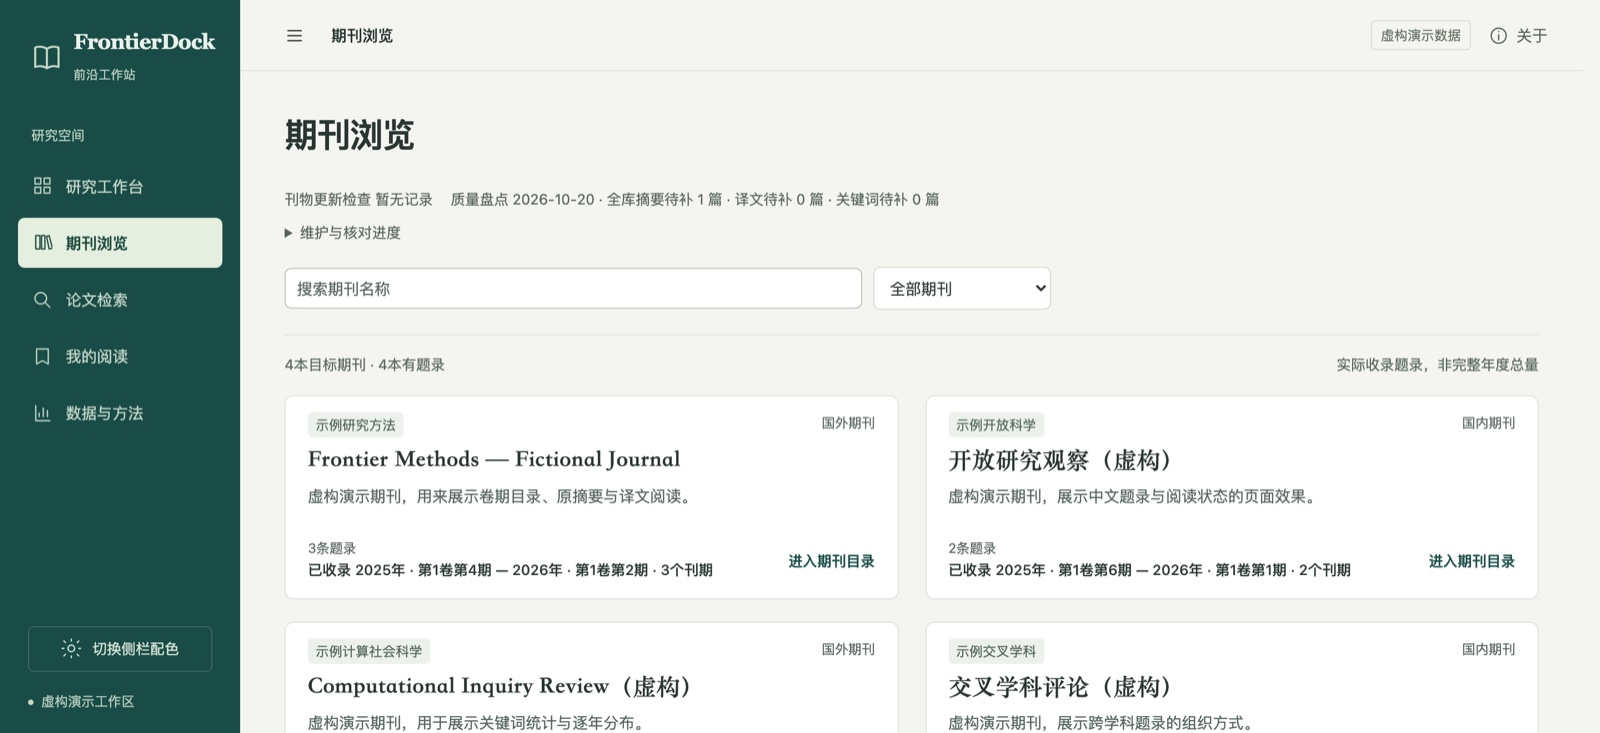
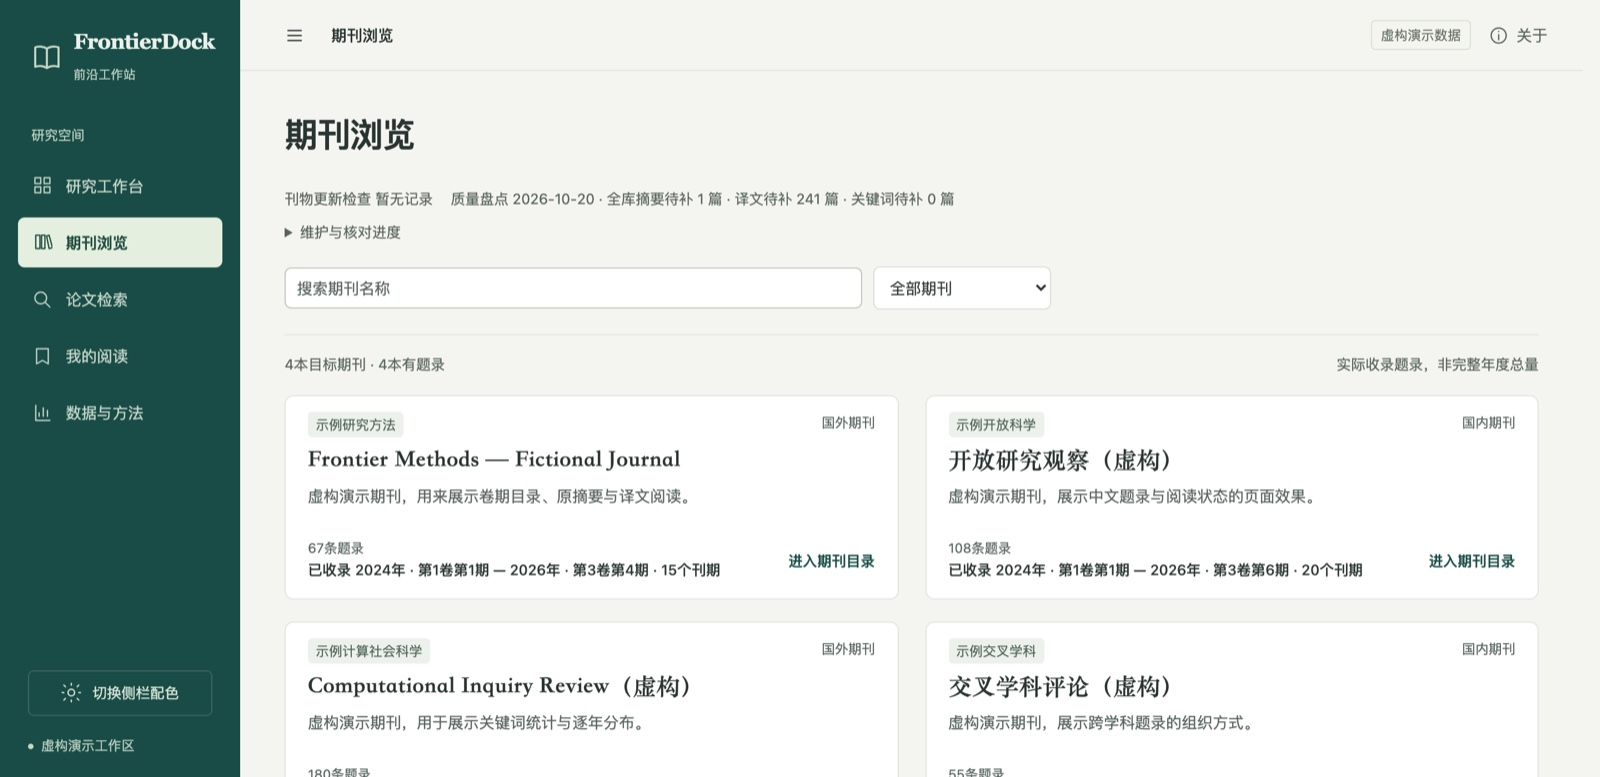
Give the demo corpus a realistic keyword distribution
The demo workspace now seeds 410 fictional records across four journals and
three years, with weighted topics so the insights page shows the long tail a
real library has: a few dominant terms, a middle band and a shallow tail.

- generate the corpus deterministically from a fixed seed; ten handcrafted
  records stay first so existing examples and tests keep their IDs
- tests that assumed a single 2024 record now use an unused year, and the
  catalog read-back filters by title instead of relying on page one
- refresh all screenshots and the hero image from the new data
- setup skill: offer a twice-daily check-up that looks for new issues,
  refills translations within the limits and reports in plain language,
  including what a broken workspace would look like to a non-technical user

diff --git a/frontierdock/core.py b/frontierdock/core.py
@@ -3,7 +3,7 @@ from pathlib import Path
 from contextlib import contextmanager,closing
 from datetime import datetime,date,timezone
 from collections import Counter
-import hashlib,json,sqlite3,os,tempfile,re
+import hashlib,json,sqlite3,os,tempfile,re,random
 
 SCHEMA='''CREATE TABLE IF NOT EXISTS papers(id TEXT PRIMARY KEY,doi TEXT UNIQUE,title TEXT NOT NULL,journal TEXT NOT NULL,date TEXT,year INTEGER,data TEXT NOT NULL);
 CREATE TABLE IF NOT EXISTS reading(id TEXT PRIMARY KEY,status TEXT,removed INTEGER DEFAULT 0,revision INTEGER DEFAULT 0,visibility_revision INTEGER DEFAULT 0);
@@ -192,6 +192,38 @@ DEMO_JOURNALS=[
  {'name':'Computational Inquiry Review（虚构）','region':'INT','field':'示例计算社会科学','description':'虚构演示期刊，用于展示关键词统计与逐年分布。','publication_frequency':'月刊'},
  {'name':'交叉学科评论（虚构）','region':'CN','field':'示例交叉学科','description':'虚构演示期刊，展示跨学科题录的组织方式。','publication_frequency':'半年刊'},
 ]
+DEMO_TOPICS=[
+ ('人工智能',9,'artificial intelligence'),('大语言模型',9,'large language models'),('AI',8,'AI'),
+ ('智能体',5,'agents'),('机器学习',4,'machine learning'),('多模态',4,'multimodal models'),('检索增强',4,'retrieval augmentation'),
+ ('提示工程',3,'prompt engineering'),('知识图谱',3,'knowledge graphs'),
+ ('文献计量',2,'bibliometrics'),('同行评议',2,'peer review'),('开放获取',2,'open access'),('学术写作',2,'academic writing'),
+ ('可复现性',2,'reproducibility'),('数据治理',2,'data governance'),('语义检索',2,'semantic search'),
+ ('自动摘要',1,'automatic summarisation'),('引用网络',1,'citation networks'),('预印本',1,'preprints'),('计算社会科学',1,'computational social science'),
+ ('数字人文',1,'digital humanities'),('模型评估',1,'model evaluation'),('认知负荷',1,'cognitive load'),('文本挖掘',1,'text mining'),
+ ('科研伦理',1,'research ethics'),('版本追踪',1,'version tracking'),('实验记录',1,'lab notebooks'),
+]
+ISSUE_MONTHS={0:[1,4,7,10],1:[1,3,5,7,9,11],2:list(range(1,13)),3:[3,9]}
+
+def demo_corpus(count=400):
+ """确定性生成虚构题录，让关键词统计有真实的长尾分布，不含任何真实论文。"""
+ rng=random.Random(20261020);words=[t[0] for t in DEMO_TOPICS];weights=[t[1] for t in DEMO_TOPICS];english=[t[2] for t in DEMO_TOPICS]
+ rows=[]
+ for n in range(count):
+  j=rng.choices([0,1,2,3],weights=[18,24,46,12])[0]
+  year=rng.choices([2024,2025,2026],weights=[18,34,48])[0]
+  month=rng.choice(ISSUE_MONTHS[j]);issue=ISSUE_MONTHS[j].index(month)+1
+  picked=list(dict.fromkeys(rng.choices(words,weights=weights,k=6)))[:6]
+  if len(picked)<3:picked=(picked+words[:3])[:3]
+  en=[english[words.index(k)] for k in picked[:2]]
+  if j in (0,2):
+   title=rng.choice([f'A fictional study of {en[0]} and {en[1]} ({n})',f'Notes on {en[0]} in research workflows (fictional {n})',f'Toward {en[0]}: a synthetic record ({n})'])
+   abstract=f'Fictional entry {n} on {en[0]}. The abstract is generated from a fixed template so that this demo can show how a stored original abstract, a translation and extracted keywords relate to each other. It describes no real study and must not be cited.'
+  else:
+   title=rng.choice([f'{picked[0]}与{picked[1]}：虚构研究记录 {n}',f'{picked[0]}视角下的{picked[1]}（虚构示例 {n}）',f'关于{picked[0]}的合成实验笔记 {n}'])
+   abstract=f'这是第 {n} 条虚构题录，主题围绕{picked[0]}与{picked[1]}。摘要由固定模板生成，用来演示原摘要、译文与关键词之间的关系，不对应任何真实研究，不能用于引用。'
+  rows.append({'j':j,'year':year,'month':month,'volume':year-2023,'issue':issue,'title':title,'abstract':abstract,'keywords':picked})
+ return rows
+
 DEMO_RECORDS=[
  {'j':0,'year':2026,'month':1,'volume':1,'issue':1,'title':'A fictional study of research signals','abstract':'This synthetic abstract demonstrates a research discovery workflow: a journal directory, an issue list, a verified abstract and a reading queue. It is not a real publication and must not be cited.','keywords':['研究信号','发现流程','来源校验'],'tt':'关于研究信号的虚构研究','tr':'这个虚构摘要演示研究发现的工作流程：期刊目录、卷期列表、经核对的摘要与阅读队列。它不是真实出版物，不应被引用。'},
  {'j':1,'year':2026,'month':1,'volume':1,'issue':1,'title':'如何构建可追溯的研究记录（虚构示例）','abstract':'此摘要完全虚构，仅用来展示原始摘要、来源链接与阅读状态的页面效果。使用者可以按自己的领域配置期刊、检索方式与维护节奏。','keywords':['可追溯性','研究记录','开放科学']},
@@ -211,21 +243,24 @@ def initialize(path,demo=False):
  root.mkdir(parents=True,exist_ok=True);(root/'.frontierdock-workspace').write_text('frontierdock-v1')
  c=defaults()
  if demo:
-  c['demo']=True;c['project']['field']='虚构跨学科演示';c['project']['years']=[date.today().year-1,date.today().year];c['journals']=DEMO_JOURNALS
+  c['demo']=True;c['project']['field']='虚构跨学科演示';c['project']['years']=[2024,2025,2026];c['journals']=DEMO_JOURNALS
  atomic_json(root/'config.json',c)
  with closing(sqlite3.connect(root/'catalog.sqlite')) as db:db.executescript(SCHEMA)
  w=Workspace(root)
  if demo:
+  rows=DEMO_RECORDS+demo_corpus()
   values=[]
-  for i,d in enumerate(DEMO_RECORDS):
+  for i,d in enumerate(rows):
    value={'record_id':f'demo:{i}','title':d['title'],'journal':c['journals'][d['j']]['name'],'authors':['Example Researcher'],'publication_date':f"{d['year']}-{d['month']:02d}-01",'date_kind':'publisher','year':d['year'],'volume':d['volume'],'issue':d['issue'],'source_url':f'https://example.org/frontierdock/demo/{i}','demo':True}
    if d.get('abstract'):value.update(abstract=d['abstract'],abstract_kind='synthetic_demo')
    values.append(value)
   w.import_records(values)
-  for i,d in enumerate(DEMO_RECORDS):
+  hashes={m['record_id']:fingerprint(m['title'],m.get('abstract') or '') for m in w.records()}
+  enrich=[]
+  for i,d in enumerate(rows):
    if not d.get('abstract'):continue
-   m=w.get(f'demo:{i}')
-   value={'record_id':m['record_id'],'source_hash':fingerprint(m['title'],m['abstract']),'model_keywords':d['keywords'],'provider':'synthetic-demo','model':'fictional-example'}
+   value={'record_id':f'demo:{i}','source_hash':hashes[f'demo:{i}'],'model_keywords':d['keywords'],'provider':'synthetic-demo','model':'fictional-example'}
    if d.get('tr'):value.update(translated_title=d['tt'],abstract_translation=d['tr'])
-   w.enrich([value])
+   enrich.append(value)
+  w.enrich(enrich)
  return w

diff --git a/tests/test_core.py b/tests/test_core.py
@@ -70,11 +70,11 @@ class CoreTests(unittest.TestCase):
   with self.assertRaises(ValueError):self.w.enrich([{'record_id':'demo:0','source_hash':fingerprint(m['title'],m['abstract']),'model_keywords':['a','b']},{'record_id':'missing'}])
   self.assertFalse(self.w.get('demo:0').get('model_keywords'))
  def test_unknown_issue_remains_unknown(self):
-  self.w.import_records([self.record(year=2024)]);g=next(x for x in views.issues(self.w,self.record()['journal'])if x['year']=='2024');self.assertEqual(g['issue'],'unknown')
+  self.w.import_records([self.record(year=2019)]);g=next(x for x in views.issues(self.w,self.record()['journal'])if x['year']=='2019');self.assertEqual(g['issue'],'unknown')
  def test_dynamic_analytics_year(self):
-  self.w.import_records([self.record(year=2024)]);d=views.analytics(self.w,{'year':'2024'});self.assertEqual(d['total'],1);self.assertIn('2024',d['available_years'])
+  self.w.import_records([self.record(year=2019)]);d=views.analytics(self.w,{'year':'2019'});self.assertEqual(d['total'],1);self.assertIn('2019',d['available_years'])
  def test_original_keywords_count(self):
-  self.w.import_records([self.record(year=2024,keywords=['reproducibility','research'])]);d=views.analytics(self.w,{'year':'2024'});self.assertEqual(d['keyword_sources']['original'],1)
+  self.w.import_records([self.record(year=2019,keywords=['reproducibility','research'])]);d=views.analytics(self.w,{'year':'2019'});self.assertEqual(d['keyword_sources']['original'],1)
  def test_agent_mode_does_not_call_provider(self):
   with patch('frontierdock.workflow.crossref',side_effect=AssertionError('must not call')),patch('frontierdock.workflow.deepseek_search',side_effect=AssertionError('must not call')):
    r=update(self.w);self.assertEqual(r['new'],0);self.assertEqual(r['agent_queue']['status'],'awaiting_agent')

diff --git a/tests/test_server.py b/tests/test_server.py
@@ -26,7 +26,7 @@ class ServerTests(unittest.TestCase):
  def test_write_persists_and_invalidates_catalog_cache(self):
   self.req('/api/v1/catalog');h={'Content-Type':'application/json','X-FrontierDock':'1','Origin':f'http://127.0.0.1:{self.port}'};b=json.dumps({'record_id':'demo:0','state':'to_read','revision':0})
   self.assertEqual(self.req('/api/v1/reading',b,h)[0],200);self.assertEqual(self.req('/api/v1/reading',b,h)[0],409)
-  _,body=self.req('/api/v1/catalog');row=next(x for x in json.loads(body)['items']if x['record_id']=='demo:0');self.assertEqual(row['reading']['status'],'to_read')
+  _,body=self.req('/api/v1/catalog?q=research%20signals');row=next(x for x in json.loads(body)['items']if x['record_id']=='demo:0');self.assertEqual(row['reading']['status'],'to_read')
  def test_invalid_body_and_unknown_endpoint(self):
   h={'Content-Type':'application/json','X-FrontierDock':'1'};self.assertEqual(self.req('/api/v1/reading','[]',h)[0],400);self.assertEqual(self.req('/api/v1/unknown')[0],404)
 

diff --git a/skills/frontierdock-setup/SKILL.md b/skills/frontierdock-setup/SKILL.md
@@ -17,7 +17,30 @@ Ask a small group of relevant questions, then make useful progress. Do not overw
 - Then ask about discovery. Agent's own search, structured Crossref retrieval and optional DeepSeek are choices. Do not require an API key for Agent mode. Explain that Python cannot automatically call the host Agent's private tools. Scholar tracking can be handled as an Agent research request; this release has no dedicated scholar dashboard or unattended scholar adapter.
 - Ask whether to translate, use this Agent or an API, which target language, and whether keyword extraction is wanted. For free-model selection, first verify current quota and stop-on-exhaustion protection. Use earliest expiry, then highest task quality within that expiry date. Never infer free quota from an HTTP 200 or model catalogue. See `docs/INTEGRATIONS.md` for the optional quota inventory format.
 - Ask about PDF extraction only if relevant. Choose disabled, an existing local MinerU installation, or optional cloud upload. Never install a large dependency or upload a document without the user's choice. This release does not provide full-text annotation.
-- Ask about timezone, journal check intervals, per-run limits, schedule, and meaningful notifications. Default is manual and quiet unless actionable. External scheduling needs an actual scheduler and, for Agent mode, an actual Agent runner. Obtain authorization for that setup, then verify it rather than merely promising it exists.
+- Ask about timezone, journal check intervals, per-run limits, schedule, and meaningful notifications. Default is manual and quiet unless actionable. External scheduling needs an actual scheduler and, for Agent mode, an actual Agent runner. Obtain authorization for that setup, then verify it rather than merely promising it exists. The twice-daily check-up below is the concrete option to offer here.
+
+## Offer a twice-daily check-up
+
+Most people using this will not be familiar with schedulers, cron or APIs. After the first successful run, offer a simple routine instead of a technical description: twice a day, at two fixed times, you look for new issues and check that the workbench itself is healthy.
+
+Ask rather than assume, and phrase it in everyday words. For example: "要不要我每天早晚各看一次？早上 9 点看看有没有新一期，晚上 9 点再补一次，顺便查一下工作台有没有出毛病。" Accept whatever they choose, including once a day, weekly, or manual only.
+
+What one check-up does:
+
+- Look for new issues of their journals: `plan`, then a bounded `update` within the configured per-run limits.
+- Fill missing translations and keywords within the same limits: `maintain`.
+- Check the workbench itself: run `doctor`, read the local run reports and state file, and notice the things a user would feel as "it stopped working" (a failed source, a stuck run lock, a full disk, a database that cannot be opened).
+- Report back in a few sentences: what is new, what needs their decision, what is broken.
+
+Rules for this section:
+
+- Two runs a day is an offer, not a default. Never install a scheduler, launch agent, systemd timer or Task Scheduler job without explicit authorization.
+- Do not claim the routine exists because a config file was written. Verify the actual job (list the crontab entry, `launchctl list`, `systemctl --user list-timers`, or the Task Scheduler query) and tell the user plainly what happens when the computer is asleep or off.
+- Agent mode still needs something to execute `requests/agent_tasks.json`. A timer alone only writes the queue.
+- Keep per-run limits small so a twice-daily routine stays quiet and cheap. Do not add paid calls without the user's choice.
+- Write the report the way a person would say it: "《期刊名》新到 2 篇，摘要都补齐了", not "update returned new=2". If something is broken, describe what they would notice, then offer to fix it locally before mentioning any external report.
+- Only interrupt when there is something actionable: papers they asked to track, a failure that needs a decision, an identity conflict to review. Stay silent otherwise.
+- Keep a short local log of each run in the workspace, and never send workspace content, logs or diagnostics to an external service or tracker.
 
 ## Configure and verify
 

diff --git a/README.md b/README.md
@@ -51,7 +51,7 @@ python3 -m frontierdock init --workspace workspace --demo
 python3 -m frontierdock serve --workspace workspace
 ```
 
-浏览器打开 **http://127.0.0.1:8876** 。演示里的四本期刊和十篇论文都是虚构的，只能看效果，不能引用。要装自己的资料，另建一个空白工作区即可。
+浏览器打开 **http://127.0.0.1:8876** 。演示里的四本期刊和四百多条题录全是虚构的，只能看效果，不能引用。要装自己的资料，另建一个空白工作区即可。
 
 ```sh
 python3 -m frontierdock init --workspace my-research

diff --git a/README.en.md b/README.en.md
@@ -47,7 +47,7 @@ python3 -m frontierdock init --workspace workspace --demo
 python3 -m frontierdock serve --workspace workspace
 ```
 
-Open **http://127.0.0.1:8876** . The four demo journals and ten demo papers are fictional and must not be cited. For real research, create a separate empty workspace:
+Open **http://127.0.0.1:8876** . The four demo journals and the 400+ records in them are fictional and must not be cited. For real research, create a separate empty workspace:
 
 ```sh
 python3 -m frontierdock init --workspace my-research
